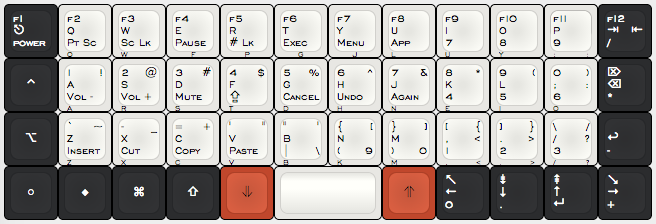
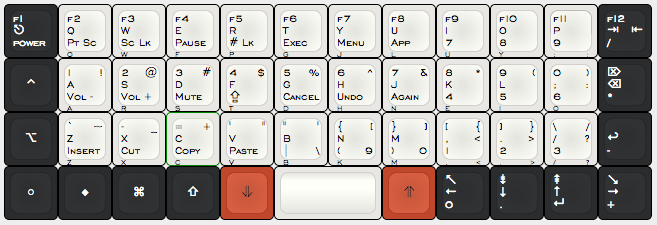
layout: fix key alignment

diff --git a/README.md b/README.md
@@ -2,7 +2,7 @@ Planck keyboard
 ===============
 Pierre's layout
 
-[![keyboard layout](layout.png)](http://www.keyboard-layout-editor.com/##@@_c=%232b2c2e&t=%23ffffff&p=DSA%3B&=f1%0Apower%0A%0A%0A%0A%0A%E2%8E%8B&_c=%23e8e7e3&t=%23000000&a:0%3B&=f2%0APt%20Sc%0A%0A%0AQ%0A%0AQ&=f3%0ASc%20Lk%0A%0A%0AW%0A%0AW&_a:4%3B&=f4%0APause%0A%0A%0AF%0A%0AE&=f5%0A%23%20Lk%0A%0A%0AP%0A%0AR&=f6%0AExec%0A%0A%0AG%0A%0AT&=f7%0AMenu%0A%0A%0AJ%0A%0AY&_a:0%3B&=f8%0AApp%0A%0A%0AL%0A%0AU&=f9%0A7%0A%0A%0AU%0A%0AI&=f10%0A8%0A%0A%0AY%0A%0AO&_h2:0.75%3B&=f11%0A9%0A%0A%0A%2F%3B%0A%2F:%0AP&_c=%232b2c2e&t=%23ffffff&a:4%3B&=f12%0A%2F%2F%0A%0A%0A%0A%0A%E2%87%A5%0A%E2%87%A4%3B&@_a:7%3B&=%E2%8C%83%0Apower%0A%0A%0A%0A%0A%E2%8E%8B&_c=%23e8e7e3&t=%23000000&a:0%3B&=1%0AVol%20-%0A!%0A%0AA%0A%0AA&=2%0AVol%20+%0A%2F@%0A%0AR%0A%0AS&=3%0AMute%0A%23%0A%0AS%0A%0AD&=4%0A%E2%87%AA%0A$%0A%0AT%0A%0AF&=5%0ACancel%0A%25%0A%0AD%0A%0AG&=6%0AUndo%0A%5E%0A%0AH%0A%0AH&=7%0AAgain%0A%2F&%0A%0AN%0A%0AJ&=8%0A4%0A*%0A%0AE%0A%0AK&=9%0A5%0A(%0A%0AI%0A%0AL&=0%0A6%0A)%0A%0AO%0A%0A%2F%3B%0A%2F:&_c=%232b2c2e&t=%23ffffff&a:4%3B&=%E2%8C%A6%0A*%0A%0A%0A%0A%0A%E2%8C%AB%3B&@_a:7%3B&=%E2%8C%A5%0Apower%0A%0A%0A%0A%0A%E2%8E%8B&_c=%23e8e7e3&t=%23000000&a:0%3B&=%60%0AInsert%0A~%0A%0AZ%0A%0AZ&=-%0ACut%0A%2F_%0A%0AX%0A%0AX&=%2F=%0ACopy%0A+%0A%0AC%0A%0AC&='%0APaste%0A%22%0A%0AV%0A%0AV&=%22%0A%7C%0A'%0A%5C%0AB%0A%0AB&=%7B%0A(%0A%5B%0A9%0AK%0A%0AN&=%7D%0A)%0A%5D%0A0%0AM%0A%0AM&=%5B%0A1%0A%7B%0A%0A,%0A%3C%0A,%0A%3C&=%5D%0A2%0A%7D%0A%0A.%0A%3E%0A.%0A%3E&=%5C%0A3%0A%2F%2F%0A%0A%2F%2F%0A%3F%0A%2F%2F%0A%3F&_c=%232b2c2e&t=%23ffffff&a:4%3B&=%0A-%0A%0A%0A%0A%0A%E2%86%A9%3B&@_a:7%3B&=%E2%97%8B&=%E2%97%86%0Apt%20sc%0A%0A%0A%0A%0Aq&=%E2%8C%98%0Asc%20lk%0A%0A%0A%0A%0Aw&=%E2%87%A7%0Apause%0A%0A%0A%0A%0Ae&_c=%23c0472c&t=%23000000%3B&=%E2%A5%A5%0Anum%20lk%0A%0A%0A%0A%0Ar&_c=%23e8e7e3&p=DSA%20SPACE&a:4&w:2%3B&=&_c=%23c0472c&p=DSA&a:7%3B&=%E2%A5%A3%0Aapp%0A%0A%0A%0A%0Au&_c=%232b2c2e&t=%23ffffff&a:4%3B&=%E2%86%96%0A0%0A%0A%0A%0A%0A%E2%86%90&=%E2%87%9F%0A.%0A%0A%0A%0A%0A%E2%86%93&=%E2%87%9E%0A%E2%86%B5%0A%0A%0A%0A%0A%E2%86%91&=%E2%86%98%0A+%0A%0A%0A%0A%0A%E2%86%92)
+[![keyboard layout](layout.png)](http://www.keyboard-layout-editor.com/##@@_c=%232b2c2e&t=%23ffffff&p=DSA%3B&=f1%0Apower%0A%0A%0A%0A%0A%E2%8E%8B&_c=%23e8e7e3&t=%23000000&a:0%3B&=f2%0APt%20Sc%0A%0A%0AQ%0A%0AQ&=f3%0ASc%20Lk%0A%0A%0AW%0A%0AW&=f4%0APause%0A%0A%0AF%0A%0AE&=f5%0A%23%20Lk%0A%0A%0AP%0A%0AR&=f6%0AExec%0A%0A%0AG%0A%0AT&=f7%0AMenu%0A%0A%0AJ%0A%0AY&=f8%0AApp%0A%0A%0AL%0A%0AU&=f9%0A7%0A%0A%0AU%0A%0AI&=f10%0A8%0A%0A%0AY%0A%0AO&_h2:0.75%3B&=f11%0A9%0A%0A%0A%2F%3B%0A%2F:%0AP&_c=%232b2c2e&t=%23ffffff&a:4%3B&=f12%0A%2F%2F%0A%0A%0A%0A%0A%E2%87%A5%0A%E2%87%A4%3B&@_a:7%3B&=%E2%8C%83%0Apower%0A%0A%0A%0A%0A%E2%8E%8B&_c=%23e8e7e3&t=%23000000&a:0%3B&=1%0AVol%20-%0A!%0A%0AA%0A%0AA&=2%0AVol%20+%0A%2F@%0A%0AR%0A%0AS&=3%0AMute%0A%23%0A%0AS%0A%0AD&=4%0A%E2%87%AA%0A$%0A%0AT%0A%0AF&=5%0ACancel%0A%25%0A%0AD%0A%0AG&=6%0AUndo%0A%5E%0A%0AH%0A%0AH&=7%0AAgain%0A%2F&%0A%0AN%0A%0AJ&=8%0A4%0A*%0A%0AE%0A%0AK&=9%0A5%0A(%0A%0AI%0A%0AL&=0%0A6%0A)%0A%0AO%0A%0A%2F%3B%0A%2F:&_c=%232b2c2e&t=%23ffffff&a:4%3B&=%E2%8C%A6%0A*%0A%0A%0A%0A%0A%E2%8C%AB%3B&@_a:7%3B&=%E2%8C%A5%0Apower%0A%0A%0A%0A%0A%E2%8E%8B&_c=%23e8e7e3&t=%23000000&a:0%3B&=%60%0AInsert%0A~%0A%0AZ%0A%0AZ&=-%0ACut%0A%2F_%0A%0AX%0A%0AX&=%2F=%0ACopy%0A+%0A%0AC%0A%0AC&='%0APaste%0A%22%0A%0AV%0A%0AV&=%22%0A%7C%0A'%0A%5C%0AB%0A%0AB&=%7B%0A(%0A%5B%0A9%0AK%0A%0AN&=%7D%0A)%0A%5D%0A0%0AM%0A%0AM&=%5B%0A1%0A%7B%0A%0A,%0A%3C%0A,%0A%3C&=%5D%0A2%0A%7D%0A%0A.%0A%3E%0A.%0A%3E&=%5C%0A3%0A%2F%2F%0A%0A%2F%2F%0A%3F%0A%2F%2F%0A%3F&_c=%232b2c2e&t=%23ffffff&a:4%3B&=%0A-%0A%0A%0A%0A%0A%E2%86%A9%3B&@_a:7%3B&=%E2%97%8B&=%E2%97%86%0Apt%20sc%0A%0A%0A%0A%0Aq&=%E2%8C%98%0Asc%20lk%0A%0A%0A%0A%0Aw&=%E2%87%A7%0Apause%0A%0A%0A%0A%0Ae&_c=%23c0472c&t=%23000000%3B&=%E2%A5%A5%0Anum%20lk%0A%0A%0A%0A%0Ar&_c=%23e8e7e3&p=DSA%20SPACE&a:4&w:2%3B&=&_c=%23c0472c&p=DSA&a:7%3B&=%E2%A5%A3%0Aapp%0A%0A%0A%0A%0Au&_c=%232b2c2e&t=%23ffffff&a:4%3B&=%E2%86%96%0A0%0A%0A%0A%0A%0A%E2%86%90&=%E2%87%9F%0A.%0A%0A%0A%0A%0A%E2%86%93&=%E2%87%9E%0A%E2%86%B5%0A%0A%0A%0A%0A%E2%86%91&=%E2%86%98%0A+%0A%0A%0A%0A%0A%E2%86%92)
 
 
 Jack's layout
